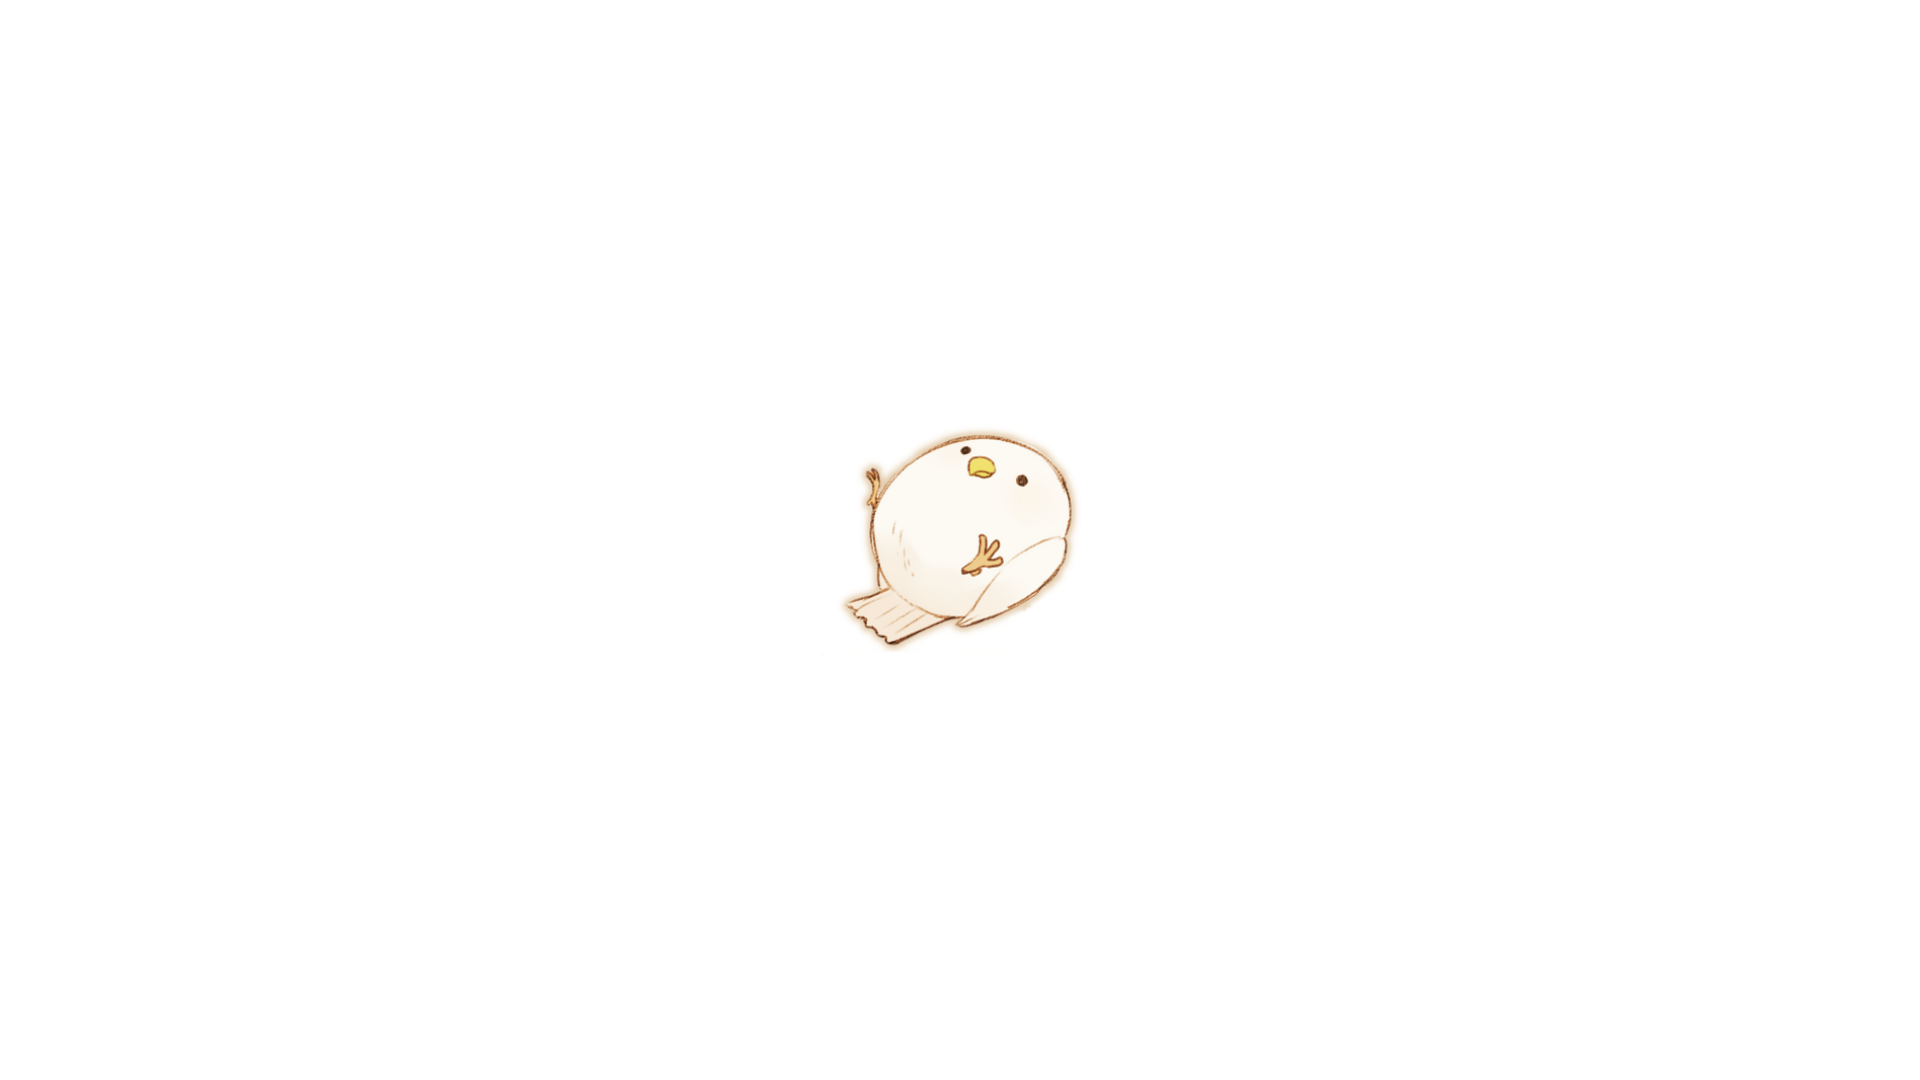
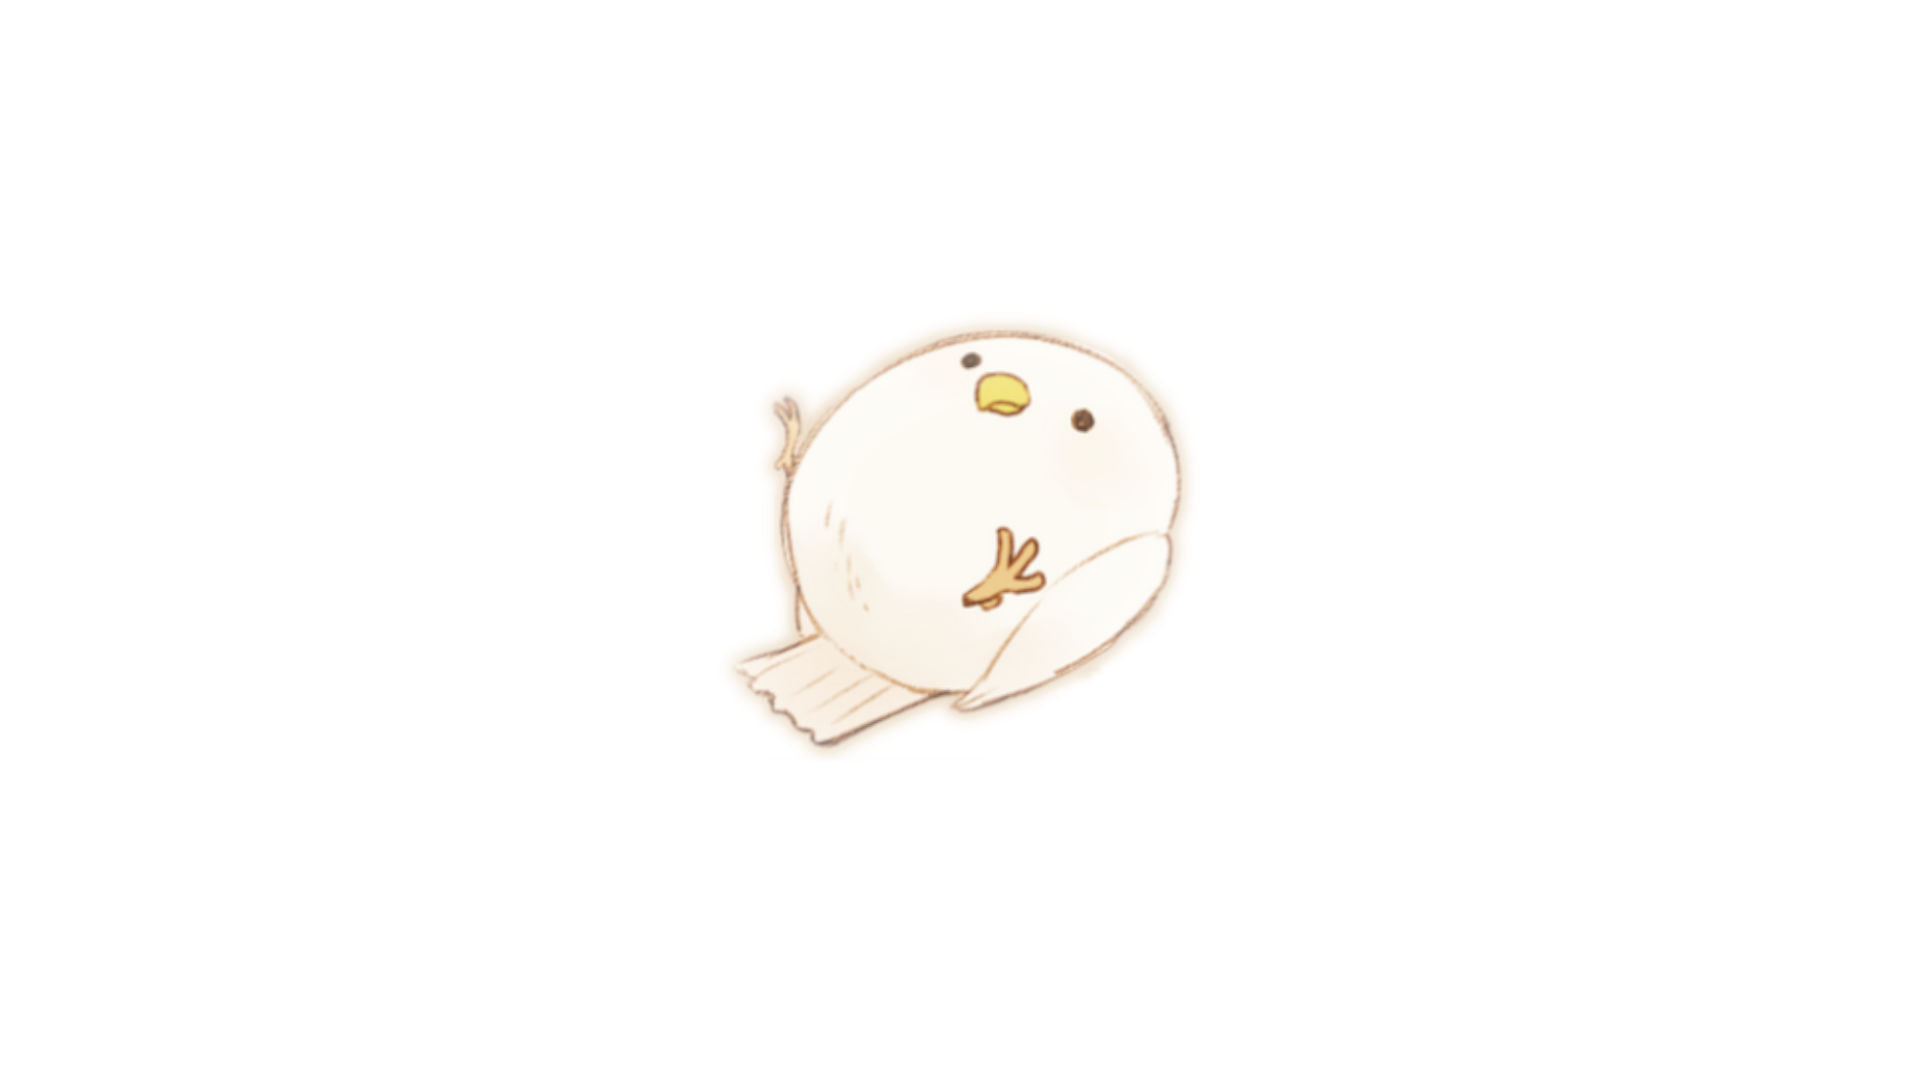
aside bar is done

Changed region(s): [[0.375, 0.275, 0.625, 0.7028], [0.4375, 0.3361, 0.4688, 0.3667]]

diff --git a/src/components/navigation/aside-nav.tsx b/src/components/navigation/aside-nav.tsx
@@ -1,3 +1,90 @@
+"use client";
+
+import { Card } from "@/components/ui/card";
+import {
+  CircleUserRoundIcon,
+  FolderOpenDotIcon,
+  HomeIcon,
+  SettingsIcon,
+} from "lucide-react";
+import Image from "next/image";
+import Link from "next/link";
+import {
+  Tooltip,
+  TooltipContent,
+  TooltipTrigger,
+} from "@/components/ui/tooltip";
+
+export const navLinks = [
+  { label: "Home", href: "/", icon: HomeIcon },
+  { label: "Projects", href: "/projects", icon: FolderOpenDotIcon },
+  { label: "About me", href: "/about-me", icon: CircleUserRoundIcon },
+];
+
 export default function AsideNav() {
-  return <div>kk</div>;
+  return (
+    <div className="fixed top-0 bottom-0 flex flex-col items-center justify-between py-6">
+      <Card className="w-16 aspect-square bg-transparent">
+        <Link
+          href={`/`}
+          className="h-full w-full flex items-center justify-center hover:animate-spin"
+        >
+          <Image
+            src={`/trans.png`}
+            width={1980}
+            height={1080}
+            alt="logo.png"
+            className="aspect-square scale-200 object-cover"
+          />
+        </Link>
+      </Card>
+      <Card className="flex flex-col items-center w-16 justify-between bg-transparent">
+        {navLinks.map((link) => (
+          <Tooltip key={link.href}>
+            <TooltipTrigger className="hover:scale-95 duration-100">
+              <Link href={link.href}>{<link.icon />}</Link>
+            </TooltipTrigger>
+            <TooltipContent side="left">
+              <p>{link.label}</p>
+            </TooltipContent>
+          </Tooltip>
+        ))}
+      </Card>
+      <Card className="flex flex-col items-center justify-between w-16 bg-transparent">
+        <Tooltip>
+          <TooltipTrigger className="hover:scale-95 duration-100">
+            <Link
+              href={`https://github.com/noonefr69/portfoliopaper`}
+              target="_blank"
+              className="h-full w-full flex items-center justify-center"
+            >
+              <Image
+                src={`/github.svg`}
+                width={1980}
+                height={1080}
+                alt="logo.png"
+                className="aspect-square max-w-6 object-cover"
+              />
+            </Link>
+          </TooltipTrigger>
+          <TooltipContent side="left">
+            <p>{"kir"}</p>
+          </TooltipContent>
+        </Tooltip>
+        <Tooltip>
+          <TooltipTrigger className="hover:scale-95 duration-100">
+            <Link
+              href={`/`}
+              className="h-full w-full flex items-center justify-center"
+            >
+              <SettingsIcon />
+            </Link>
+          </TooltipTrigger>
+          <TooltipContent side="left">
+            <p>{"kir"}</p>
+          </TooltipContent>
+        </Tooltip>
+      </Card>
+    </div>
+  );
 }

diff --git a/src/app/layout.tsx b/src/app/layout.tsx
@@ -3,6 +3,7 @@ import "./globals.css";
 import { Geist } from "next/font/google";
 import { cn } from "@/lib/utils";
 import AsideNav from "@/components/navigation/aside-nav";
+import { TooltipProvider } from "@/components/ui/tooltip";
 
 const geist = Geist({ subsets: ["latin"], variable: "--font-sans" });
 
@@ -15,12 +16,14 @@ export default function RootLayout({ children }: LayoutProps<"/">) {
   return (
     <html lang="en" className={cn("h-full", "font-sans", geist.variable)}>
       <body className="min-h-full flex flex-col">
-        <main className="flex gap-2 max-w-7xl min-w-0 w-full mx-auto">
-          <div className="flex-1 min-w-0 bg-red-500">{children}</div>
-          <aside className="hidden p-10 lg:block bg-blue-500 shrink-0">
-            <AsideNav />
-          </aside>
-        </main>
+        <TooltipProvider>
+          <main className="flex gap-2 max-w-7xl min-w-0 w-full mx-auto">
+            <div className="flex-1 min-w-0">{children}</div>
+            <aside className="hidden lg:flex flex-col items-center shrink-0 p-10">
+              <AsideNav />
+            </aside>
+          </main>
+        </TooltipProvider>
       </body>
     </html>
   );

diff --git a/src/app/page.tsx b/src/app/page.tsx
@@ -1,3 +1,5 @@
 export default function Home() {
-  return <div className="flex min-h-svh items-center justify-center">Page</div>;
+  return (
+    <div className="flex min-h-svh h-400 items-center justify-center">Page</div>
+  );
 }

diff --git a/src/app/globals.css b/src/app/globals.css
@@ -4,6 +4,10 @@
 
 @custom-variant dark (&:is(.dark *));
 
+* {
+    border-radius: 0px !important;
+}
+
 @theme inline {
     --font-heading: var(--font-sans);
     --font-sans: var(--font-sans);
